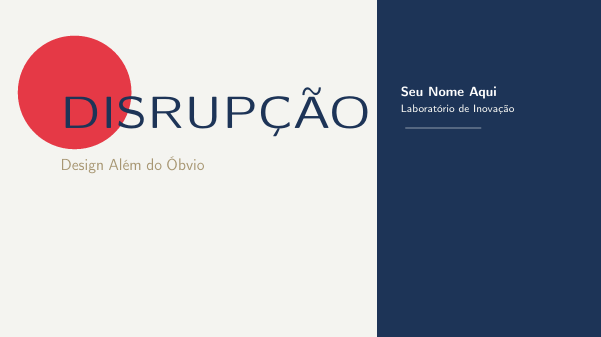
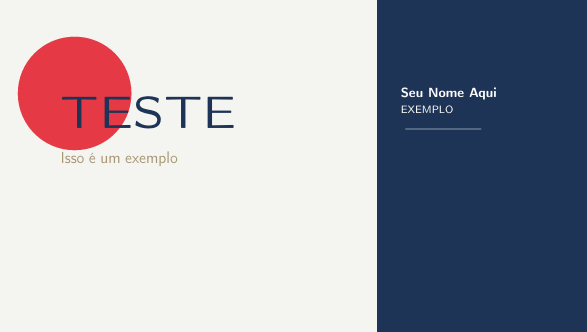
V 2.0.59

diff --git a/main.js b/main.js
@@ -735,8 +735,8 @@ class UI {
                     <!-- Grid 3x3 de Designs -->
                     <div class="grid grid-cols-3 gap-4 mb-6">
                         <!-- Botão 1: Sapientia -->
-                        <button onclick="window.selectDesign('sapientia', '${message.replace(/['"\\]/g, '\\$&')}', ${processingId}, ${messageId})" 
-                                class="group bg-white dark:bg-gray-800 border-2 border-gray-200 dark:border-gray-700 rounded-lg p-4 hover:border-green-400 dark:hover:border-green-400 transition-all hover:shadow-lg cursor-pointer">
+                        <button data-design="sapientia" data-message="${message.replace(/['"\\]/g, '\\$&')}" data-processing-id="${processingId}" data-message-id="${messageId}"
+                                class="design-button group bg-white dark:bg-gray-800 border-2 border-gray-200 dark:border-gray-700 rounded-lg p-4 hover:border-green-400 dark:hover:border-green-400 transition-all hover:shadow-lg cursor-pointer">
                             <div class="aspect-video bg-gray-100 dark:bg-gray-700 rounded mb-3 flex items-center justify-center">
                                 <img src="img/ex1.png" alt="Sapientia" class="w-full h-full object-cover rounded" onerror="this.style.display='none'; this.nextElementSibling.style.display='flex';">
                                 <div class="hidden items-center justify-center w-full h-full text-gray-400">
@@ -748,8 +748,8 @@ class UI {
                         </button>
                         
                         <!-- Botão 2: Slate & Gold Executive -->
-                        <button onclick="window.selectDesign('slate-gold', '${message.replace(/['"\\]/g, '\\$&')}', ${processingId}, ${messageId})" 
-                                class="group bg-white dark:bg-gray-800 border-2 border-gray-200 dark:border-gray-700 rounded-lg p-4 hover:border-green-400 dark:hover:border-green-400 transition-all hover:shadow-lg cursor-pointer">
+                        <button data-design="slate-gold" data-message="${message.replace(/['"\\]/g, '\\$&')}" data-processing-id="${processingId}" data-message-id="${messageId}"
+                                class="design-button group bg-white dark:bg-gray-800 border-2 border-gray-200 dark:border-gray-700 rounded-lg p-4 hover:border-green-400 dark:hover:border-green-400 transition-all hover:shadow-lg cursor-pointer">
                             <div class="aspect-video bg-gray-100 dark:bg-gray-700 rounded mb-3 flex items-center justify-center">
                                 <img src="img/ex2.png" alt="Slate & Gold Executive" class="w-full h-full object-cover rounded" onerror="this.style.display='none'; this.nextElementSibling.style.display='flex';">
                                 <div class="hidden items-center justify-center w-full h-full text-gray-400">
@@ -761,8 +761,8 @@ class UI {
                         </button>
                         
                         <!-- Botão 3: Aura Neo-Tech -->
-                        <button onclick="window.selectDesign('aura-neo', '${message.replace(/['"\\]/g, '\\$&')}', ${processingId}, ${messageId})" 
-                                class="group bg-white dark:bg-gray-800 border-2 border-gray-200 dark:border-gray-700 rounded-lg p-4 hover:border-green-400 dark:hover:border-green-400 transition-all hover:shadow-lg cursor-pointer">
+                        <button data-design="aura-neo" data-message="${message.replace(/['"\\]/g, '\\$&')}" data-processing-id="${processingId}" data-message-id="${messageId}"
+                                class="design-button group bg-white dark:bg-gray-800 border-2 border-gray-200 dark:border-gray-700 rounded-lg p-4 hover:border-green-400 dark:hover:border-green-400 transition-all hover:shadow-lg cursor-pointer">
                             <div class="aspect-video bg-gray-100 dark:bg-gray-700 rounded mb-3 flex items-center justify-center">
                                 <img src="img/ex3.png" alt="Aura Neo-Tech" class="w-full h-full object-cover rounded" onerror="this.style.display='none'; this.nextElementSibling.style.display='flex';">
                                 <div class="hidden items-center justify-center w-full h-full text-gray-400">
@@ -800,6 +800,20 @@ class UI {
                     </div>
                 </div>
             `;
+            
+            // Adicionar event listeners aos botões
+            const designButtons = messageElement.querySelectorAll('.design-button');
+            designButtons.forEach(button => {
+                button.addEventListener('click', (e) => {
+                    const designType = e.currentTarget.dataset.design;
+                    const messageData = e.currentTarget.dataset.message;
+                    const processingId = e.currentTarget.dataset.processingId;
+                    const messageId = e.currentTarget.dataset.messageId;
+                    
+                    // Chamar função global com os dados
+                    window.selectDesign(designType, messageData, parseInt(processingId), parseInt(messageId));
+                });
+            });
         }
         
         this.scrollToBottom();

diff --git a/tex/ex4.tex b/tex/ex4.tex
@@ -1,0 +1,178 @@
+\documentclass[10pt, aspectratio=169]{beamer}
+
+% --- Pacotes de Design e Tipografia ---
+\usepackage[utf8]{inputenc}
+\usepackage[T1]{fontenc}
+\usepackage{tikz}
+\usetikzlibrary{shapes.geometric, shadows}
+\usepackage{anyfontsize}
+\usepackage{tcolorbox}
+
+% --- Paleta de Cores "Vanguardista" ---
+\definecolor{BgPaper}{HTML}{F5F5F0}
+\definecolor{BauhausRed}{HTML}{E63946}
+\definecolor{DeepSlate}{HTML}{1D3557}
+\definecolor{GoldAccent}{HTML}{A89672}
+
+% --- Configurações Básicas ---
+\setbeamercolor{background canvas}{bg=BgPaper}
+\setbeamercolor{normal text}{fg=DeepSlate}
+\setbeamertemplate{navigation symbols}{}
+
+% --- Template de Título ---
+\setbeamertemplate{frametitle}{
+    \vspace{0.4cm}
+    \begin{tikzpicture}[remember picture, overlay]
+        \fill[GoldAccent, opacity=0.2] (2, 0.5) circle (1.2cm);
+        \node[anchor=west] at (0.5, 0) {
+            \fontsize{22}{26}\selectfont \textbf{\textcolor{DeepSlate}{\insertframetitle}}
+        };
+        \fill[BauhausRed] (0.5, -0.6) rectangle (2.5, -0.7);
+    \end{tikzpicture}
+    \vspace{0.8cm}
+}
+
+% --- Capa ---
+\setbeamertemplate{title page}{
+    \begin{tikzpicture}[remember picture, overlay]
+        \fill[DeepSlate] ([xshift=-6cm]current page.north east) rectangle (current page.south east);
+        \fill[BauhausRed] ([xshift=-6cm, yshift=2cm]current page.center) circle (1.5cm);
+        \node[anchor=west, text width=7cm] at ([xshift=1.5cm, yshift=1cm]current page.west) {
+            {\fontsize{35}{40}\selectfont \textbf{\inserttitle}} \\[0.5cm]
+            {\large \textcolor{GoldAccent}{\insertsubtitle}}
+        };
+        \node[anchor=west, text white] at ([xshift=-5.5cm, yshift=-3cm]current page.north east) {
+            \begin{minipage}{5cm}
+                \textcolor{white}{\textbf{\insertauthor}} \\
+                \textcolor{BgPaper!70}{\footnotesize \insertinstitute} \\
+                \vspace{0.2cm}
+                \tikz \draw[white, thin] (0,0) -- (2,0);
+            \end{minipage}
+        };
+    \end{tikzpicture}
+}
+
+\begin{document}
+
+\title{DISRUPÇÃO}
+\subtitle{Design Além do Óbvio}
+\author{Seu Nome Aqui}
+\institute{Laboratório de Inovação}
+
+% Slide 1 - Capa
+\begin{frame}[plain]
+  \titlepage
+\end{frame}
+
+% Slide 2
+\begin{frame}{O Conceito Bauhaus}
+\begin{columns}
+\column{0.5\textwidth}
+\textbf{Menos é Mais?} \\
+Não. O design aqui fala sobre \textbf{controle visual e hierarquia}.  
+Cada elemento possui peso, função e silêncio.
+
+\vspace{0.4cm}
+Nada está aqui por acaso.
+\column{0.5\textwidth}
+\begin{tcolorbox}[colback=BauhausRed, colframe=BauhausRed, arc=0pt, boxrule=0pt]
+\textcolor{white}{Design não é estética. É decisão visual.}
+\end{tcolorbox}
+\end{columns}
+\end{frame}
+
+% Slide 3
+\begin{frame}{Forma Antes da Função}
+O olhar humano responde primeiro à forma, depois ao conteúdo.
+
+\vspace{0.4cm}
+\begin{itemize}
+\item[\color{BauhausRed}\tiny$\blacksquare$] Geometria orienta leitura
+\item[\color{BauhausRed}\tiny$\blacksquare$] Cores criam tensão
+\item[\color{BauhausRed}\tiny$\blacksquare$] Espaço comunica intenção
+\end{itemize}
+\end{frame}
+
+% Slide 4
+\begin{frame}{Design é Ritmo}
+Texto, vazio, forma.  
+Texto, vazio, forma.
+
+\vspace{0.6cm}
+\textit{O ritmo visual define a experiência antes da mensagem.}
+\end{frame}
+
+% Slide 5
+\begin{frame}{Equações como Arte}
+\vspace{1cm}
+\begin{center}
+{\fontsize{30}{35}\selectfont
+\[
+\oint_C \mathbf{B} \cdot d\mathbf{l} = \mu_0 I_{enc}
+\]
+}
+\vspace{0.5cm}
+\tikz \draw[GoldAccent, line width=3pt] (0,0) -- (1,0);\\
+\small Informação também pode ser bela.
+\end{center}
+\end{frame}
+
+% Slide 6
+\begin{frame}{Tipografia como Arquitetura}
+Cada fonte cria uma estrutura invisível.
+
+\vspace{0.4cm}
+\begin{itemize}
+\item Peso define autoridade
+\item Espaçamento cria conforto
+\item Tamanho define prioridade
+\end{itemize}
+\end{frame}
+
+% Slide 7
+\begin{frame}{Cores Não Decoram}
+Cores \textbf{direcionam decisões}.
+
+\vspace{0.5cm}
+\begin{tcolorbox}[colback=GoldAccent!30, colframe=GoldAccent, arc=0pt, boxrule=0pt]
+Contraste é narrativa visual.
+\end{tcolorbox}
+\end{frame}
+
+% Slide 8
+\begin{frame}{Assimetria Controlada}
+A quebra do padrão chama atenção.
+
+\vspace{0.4cm}
+Assimetria gera dinamismo sem caos — quando bem calculada.
+\end{frame}
+
+% Slide 9
+\begin{frame}{Design é Estratégia}
+Não existe design neutro.
+
+\vspace{0.5cm}
+Tudo influencia:
+\begin{itemize}
+\item Decisão
+\item Emoção
+\item Comportamento
+\end{itemize}
+\end{frame}
+
+% Slide 10 - Encerramento
+\begin{frame}[plain]
+\begin{tikzpicture}[remember picture, overlay]
+\fill[BauhausRed] (current page.south west) rectangle (current page.north east);
+\node at (current page.center) {
+\begin{minipage}{\textwidth}
+\centering
+\fontsize{50}{60}\selectfont \textbf{\textcolor{white}{OBRIGADO.}}\\
+\vspace{0.5cm}
+\large \textcolor{DeepSlate}{Vamos conversar?}
+\end{minipage}
+};
+\end{tikzpicture}
+\end{frame}
+
+\end{document}
